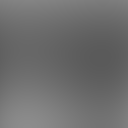
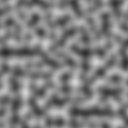
modify seamless perlin noise

diff --git a/Assets/Editor/Noise/FractalPerlinNoise.cs b/Assets/Editor/Noise/FractalPerlinNoise.cs
@@ -16,11 +16,28 @@ public class FractalPerlinNoise : PerlinNoise
     private float FractalPerlinNoise2D(float x, float y)
     {
         var total = 0f;
-        for (int i = 0; i < noiseInfo.octaves; i++)
+        if (!noiseInfo.isSeamless)
         {
-            var frequency = Mathf.Pow(2, i);
-            var amplitude = Mathf.Pow(noiseInfo.persistence, i);
-            total += PerlinNoise2D(x * frequency, y * frequency) * amplitude;
+            for (int i = 0; i < noiseInfo.octaves; i++)
+            {
+                var frequency = Mathf.Pow(2, i);
+                var amplitude = Mathf.Pow(noiseInfo.persistence, i);
+                total += PerlinNoise2D(x * frequency, y * frequency) * amplitude;
+            }
+        }
+        else
+        {
+            float period = noiseInfo.period;
+            float t = 0;
+            for (int i = 0; i < noiseInfo.octaves; i++)
+            {
+                var frequency = Mathf.Pow(2, i);
+                var amplitude = Mathf.Pow(noiseInfo.persistence, i);
+                total += SeamlessPerlinNoise(x, y, period) * amplitude;
+                period *= 2;
+                t += amplitude;
+            }
+            total /= t;
         }
         return total;
     }

diff --git a/Assets/Editor/Noise/PerlinNoise.cs b/Assets/Editor/Noise/PerlinNoise.cs
@@ -34,7 +34,7 @@ public class PerlinNoise : BaseNoise, INoiseBase
     {
         if (noiseInfo.isSeamless)
         {
-            SeamlessValueNoise(x, y, noiseInfo.period);
+            SeamlessPerlinNoise(x, y, noiseInfo.period);
         }
         return PerlinNoise2D(x, y);
     }
@@ -74,7 +74,7 @@ public class PerlinNoise : BaseNoise, INoiseBase
         return a + (b - a) * NoiseHelper.EaseCurveInterpolate(0, 1, y - y0);
     }
 
-    protected float SeamlessValueNoise(float x, float y, float period)
+    protected float SeamlessPerlinNoise(float x, float y, float period)
     {
         Vector2 p = new Vector2(x * period, y * period);
         int x0 = Mathf.FloorToInt(p.x);
@@ -101,6 +101,7 @@ public class PerlinNoise : BaseNoise, INoiseBase
         float i = r[0];
         float index = i - Mathf.FloorToInt(i);
         index *= randomGrads.Length;
+        //Debug.Log("index:" + index);
         return randomGrads[Mathf.FloorToInt(index)];
     }
 }
